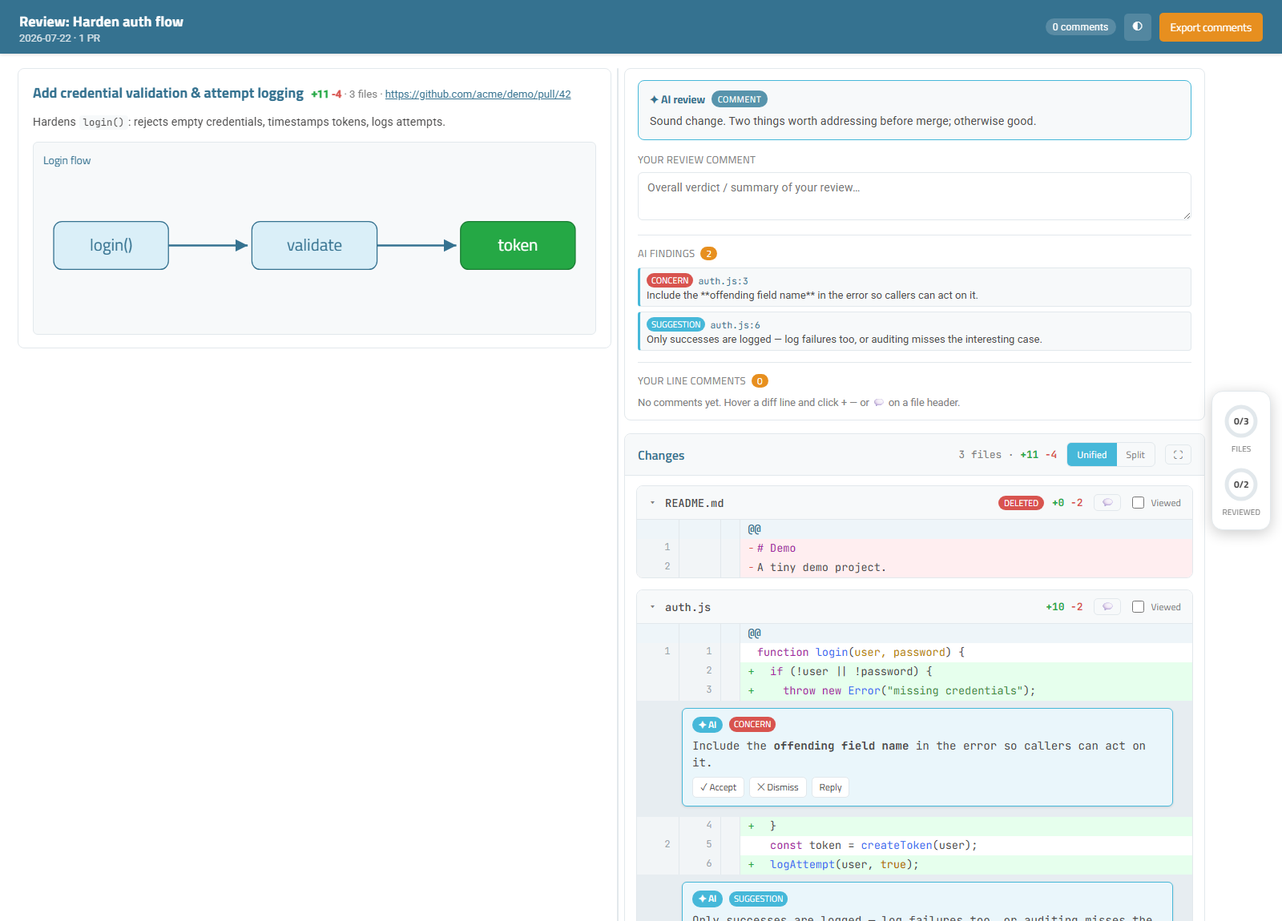
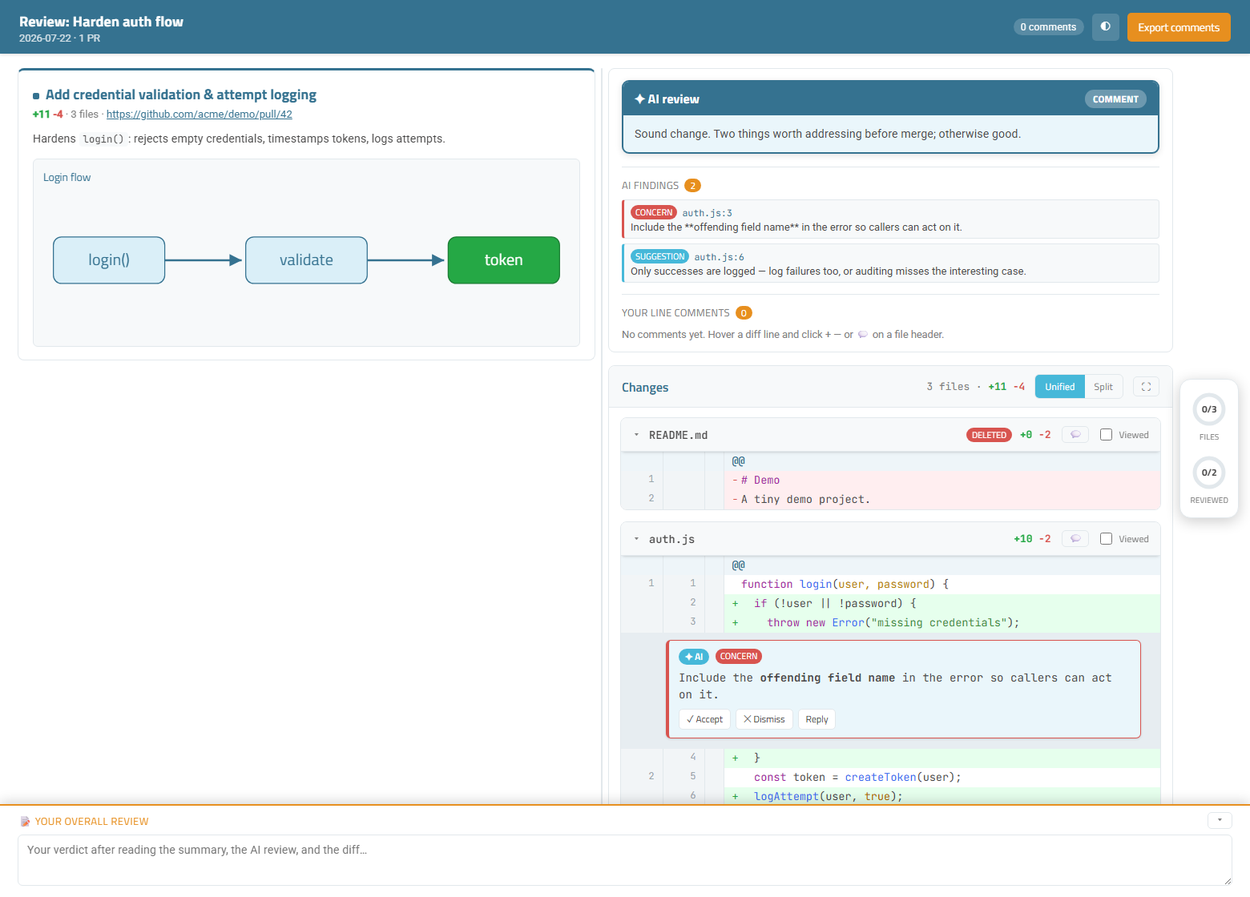
Add change groups, per-hunk highlighting, and review UI polish

diff --git a/templates/review.template.html b/templates/review.template.html
@@ -62,7 +62,7 @@
   .seg button { background:transparent; color:var(--header-text); border:none; padding:7px 12px; cursor:pointer; font-family:var(--font-heading); font-size:.8rem; }
   .seg button.active { background:rgba(255,255,255,.9); color:var(--secondary); }
 
-  .tabs { display:flex; gap:2px; padding:0 20px; background:var(--panel); border-bottom:1px solid var(--border); position:sticky; top:58px; z-index:20; overflow-x:auto; }
+  .tabs { display:flex; gap:2px; padding:0 20px; background:var(--panel); border-bottom:1px solid var(--border); position:sticky; top:var(--h-app,57px); z-index:20; overflow-x:auto; }
   .tabs:empty { display:none; }
   .tab { border:none; background:none; padding:11px 16px; cursor:pointer; font-family:var(--font-heading); color:var(--muted); border-bottom:3px solid transparent; white-space:nowrap; font-size:.9rem; }
   .tab.active { color:var(--secondary); border-bottom-color:var(--orange); }
@@ -76,8 +76,9 @@
   .pr-context {
     flex:0 0 var(--left-w); width:auto; min-width:0; position:sticky; top:72px;
     max-height:calc(100vh - 92px); overflow:auto;
-    background:var(--card); border:1px solid var(--border); border-radius:8px; padding:16px 18px;
+    background:var(--card); border:1px solid var(--border); border-top:3px solid var(--secondary); border-radius:8px; padding:16px 18px;
   }
+  .summary-head h2::before { content:""; display:inline-block; width:8px; height:8px; border-radius:2px; background:var(--secondary); margin-right:8px; vertical-align:middle; }
   .col-resizer { flex:0 0 16px; align-self:stretch; cursor:col-resize; position:relative; }
   .col-resizer::before { content:""; position:absolute; left:7px; top:0; bottom:0; width:2px; background:var(--border); border-radius:2px; transition:background .1s,width .1s; }
   .col-resizer:hover::before, .col-resizer.active::before { background:var(--primary); width:4px; left:6px; }
@@ -111,15 +112,35 @@
   .review-top { background:var(--card); border:1px solid var(--border); border-radius:8px; padding:14px 16px; }
   .review-label { display:block; font-family:var(--font-heading); font-size:.8rem; color:var(--muted); text-transform:uppercase; letter-spacing:.03em; margin-bottom:6px; }
   .review-top .general-input { min-height:60px; }
+  /* the reviewer's own overall verdict — an always-visible bar pinned to the
+     bottom of the viewport (orange accent, collapsible) */
+  .overall-bar { position:fixed; left:0; right:0; bottom:0; z-index:40; background:var(--card);
+    border-top:2px solid var(--orange); box-shadow:0 -3px 14px rgba(0,0,0,.16); padding:8px 22px 10px; }
+  .ob-head { display:flex; align-items:center; gap:10px; }
+  .ob-head .review-label { color:var(--orange); font-size:.82rem; margin:0; }
+  .ob-toggle { margin-left:auto; background:none; border:1px solid var(--border); border-radius:5px; color:var(--muted); cursor:pointer; font-size:.8rem; line-height:1; padding:3px 9px; }
+  .ob-toggle:hover { border-color:var(--orange); color:var(--orange); }
+  .overall-bar textarea { margin-top:7px; min-height:64px; }
+  body.oq-collapsed .overall-bar textarea { display:none; }
+  body.oq-collapsed .overall-bar { padding-bottom:8px; }
+  body.oq-collapsed .ob-toggle { transform:rotate(180deg); }
+  main { padding-bottom:150px; }
+  body.oq-collapsed main { padding-bottom:58px; }
+  @media (max-width:960px){ .overall-bar { padding-left:14px; padding-right:14px; } }
 
-  /* ── Claude's automatic review ── */
-  .ai-review { border:1px solid var(--primary); background:linear-gradient(0deg,var(--panel),var(--panel)); border-radius:8px; padding:12px 14px; margin-bottom:14px; }
-  .ai-review-head { display:flex; align-items:center; gap:8px; margin-bottom:6px; }
-  .ai-tag { font-family:var(--font-heading); font-weight:700; color:var(--secondary); font-size:.85rem; }
-  .verdict { font-family:var(--font-heading); font-size:.7rem; text-transform:uppercase; letter-spacing:.03em; padding:2px 8px; border-radius:10px; color:#fff; }
-  .verdict-approve { background:var(--green); }
-  .verdict-comment { background:var(--secondary-light,#5894AC); }
-  .verdict-request-changes { background:var(--red); }
+  /* ── AI review ── */
+  /* AI review card — bold, verdict-coloured header so it's spotted instantly */
+  .ai-review { border:2px solid var(--secondary); border-radius:9px; margin-bottom:16px; overflow:clip; background:var(--ai-bg); box-shadow:0 2px 8px rgba(0,0,0,.12); }
+  .ai-review-head { display:flex; align-items:center; gap:10px; padding:9px 14px; background:var(--secondary); color:#fff; }
+  .ai-review.v-approve { border-color:var(--green); } .ai-review.v-approve .ai-review-head { background:var(--green); }
+  .ai-review.v-request-changes { border-color:var(--red); } .ai-review.v-request-changes .ai-review-head { background:var(--red); }
+  .ai-review .summary-body { padding:12px 14px; }
+  .ai-tag { font-family:var(--font-heading); font-weight:700; color:#fff; font-size:1rem; }
+  .verdict { font-family:var(--font-heading); font-size:.72rem; font-weight:700; text-transform:uppercase; letter-spacing:.04em; padding:3px 10px; border-radius:11px; }
+  .ai-review-head .verdict { background:rgba(255,255,255,.28); color:#fff; margin-left:auto; }
+  .verdict-approve { background:var(--green); color:#fff; }
+  .verdict-comment { background:var(--secondary-light,#5894AC); color:#fff; }
+  .verdict-request-changes { background:var(--red); color:#fff; }
   .finding-list { display:flex; flex-direction:column; gap:6px; max-height:280px; overflow:auto; }
   .finding-item { text-align:left; background:var(--panel); border:1px solid var(--border); border-left:3px solid var(--primary); border-radius:4px; padding:6px 8px; cursor:pointer; font:inherit; color:var(--text); }
   .finding-item:hover { border-color:var(--primary); }
@@ -138,9 +159,16 @@
   .sev-question { background:var(--orange); }
   .sev-praise { background:var(--green); }
   .sev-comment { background:var(--secondary-light,#5894AC); }
+  /* severity-coloured accents so the eye jumps to concerns first */
+  .finding-item.sv-concern { border-left-color:var(--red); } .finding-item.sv-suggestion { border-left-color:var(--primary); }
+  .finding-item.sv-question { border-left-color:var(--orange); } .finding-item.sv-nit { border-left-color:var(--muted); }
+  .finding-item.sv-praise { border-left-color:var(--green); }
+  .ai-comment.sv-concern .ai-box { border-color:var(--red); } .ai-comment.sv-suggestion .ai-box { border-color:var(--primary); }
+  .ai-comment.sv-question .ai-box { border-color:var(--orange); } .ai-comment.sv-nit .ai-box { border-color:var(--muted); }
+  .ai-comment.sv-praise .ai-box { border-color:var(--green); }
 
   /* inline AI comment row (in the diff) — a bordered, tinted card, never code */
-  .ai-box { margin:8px 14px 12px 46px; border:1px solid var(--primary); background:var(--ai-bg); border-radius:6px; padding:10px 12px; box-shadow:0 1px 3px rgba(0,0,0,.12); }
+  .ai-box { margin:8px 14px 12px 46px; border:1px solid var(--primary); border-left-width:4px; background:var(--ai-bg); border-radius:6px; padding:10px 12px; box-shadow:0 1px 3px rgba(0,0,0,.12); }
   .ai-comment.dismissed .ai-box { opacity:.5; }
   .ai-box-head { display:flex; align-items:center; gap:8px; margin-bottom:6px; }
   .ai-box-head .who { font-family:var(--font-heading); font-weight:600; font-size:.72rem; color:#fff; background:var(--primary); padding:1px 8px; border-radius:10px; }
@@ -169,7 +197,7 @@
 
   /* ── diff block (bottom of right column) ── */
   .diff-block { background:var(--card); border:1px solid var(--border); border-radius:8px; }
-  .diff-block-head { display:flex; align-items:center; justify-content:space-between; gap:10px; padding:10px 16px; background:var(--panel); border-bottom:1px solid var(--border); border-radius:8px 8px 0 0; position:sticky; top:58px; z-index:15; }
+  .diff-block-head { display:flex; align-items:center; justify-content:space-between; gap:10px; padding:10px 16px; background:var(--panel); border-bottom:1px solid var(--border); border-radius:8px 8px 0 0; position:sticky; top:calc(var(--h-app,57px) + var(--h-tabs,0px)); z-index:15; }
   .dbh-title { font-family:var(--font-heading); font-weight:600; color:var(--secondary); }
   .dbh-right { display:flex; align-items:center; gap:12px; }
   .dbh-meta { font-family:var(--mono); font-size:.8rem; color:var(--muted); }
@@ -211,8 +239,35 @@
   textarea { width:100%; font-family:var(--font-body); font-size:.9rem; color:var(--text); background:var(--bg); border:1px solid var(--border); border-radius:6px; padding:9px 11px; resize:vertical; min-height:46px; }
   textarea:focus { outline:none; border-color:var(--primary); box-shadow:0 0 0 2px rgba(70,184,217,.25); }
 
-  .file { border:1px solid var(--border); border-radius:8px; margin-bottom:14px; overflow:hidden; background:var(--card); }
-  .file-header { display:flex; align-items:center; gap:10px; padding:10px 14px; background:var(--panel); cursor:pointer; user-select:none; border-bottom:1px solid var(--border); }
+  /* change groups — theme the diff (mechanical / feature / …); one "Reviewed" clears the whole group */
+  .group { margin-bottom:18px; }
+  .group-head { display:flex; align-items:center; gap:10px; padding:9px 14px; cursor:pointer; user-select:none; background:var(--panel); border:1px solid var(--border); border-left:4px solid var(--secondary); border-radius:8px; }
+  .group.gk-mechanical > .group-head { border-left-color:var(--muted); }
+  .group.gk-refactor > .group-head { border-left-color:#8a63d2; }
+  .group.gk-feature > .group-head { border-left-color:var(--primary); }
+  .group.gk-fix > .group-head { border-left-color:var(--red); }
+  .group.gk-test > .group-head { border-left-color:var(--green); }
+  .group.gk-docs > .group-head { border-left-color:var(--orange); }
+  .group .chevron { color:var(--muted); font-size:.8rem; transition:transform .15s; }
+  .group.collapsed .chevron { transform:rotate(-90deg); }
+  .group.collapsed .group-note, .group.collapsed .group-files { display:none; }
+  .group-title { font-family:var(--font-heading); font-weight:600; color:var(--secondary); flex:1; word-break:break-word; }
+  .group-kind { font-family:var(--font-heading); font-size:.64rem; text-transform:uppercase; letter-spacing:.04em; padding:2px 8px; border-radius:10px; color:#fff; white-space:nowrap; }
+  .group-kind.gk-mechanical { background:var(--muted); } .group-kind.gk-refactor { background:#8a63d2; } .group-kind.gk-feature { background:var(--primary); }
+  .group-kind.gk-fix { background:var(--red); } .group-kind.gk-test { background:var(--green); } .group-kind.gk-docs { background:var(--orange); } .group-kind.gk-other { background:var(--secondary-light,#5894AC); }
+  .group-count { font-size:.78rem; color:var(--muted); white-space:nowrap; }
+  .group-viewed { display:flex; align-items:center; gap:5px; font-family:var(--font-heading); font-size:.74rem; color:var(--muted); cursor:pointer; white-space:nowrap; }
+  .group-viewed input { accent-color:var(--green); width:15px; height:15px; cursor:pointer; }
+  .group-note { font-size:.9rem; line-height:1.5; color:var(--text); padding:10px 14px 2px; }
+  .group-note > :first-child { margin-top:0; } .group-note > :last-child { margin-bottom:0; }
+  .group-files { padding-top:12px; display:flex; flex-direction:column; gap:12px; }
+  .group-files .file { margin-bottom:0; }
+
+  .file { border:1px solid var(--border); border-radius:8px; margin-bottom:14px; overflow:clip; background:var(--card); }
+  /* file header sticks under the "Changes" bar while scrolling a long file */
+  .file-header { position:sticky; top:calc(var(--h-app,57px) + var(--h-tabs,0px) + var(--h-diffhead,42px)); z-index:6;
+    display:flex; align-items:center; gap:10px; padding:10px 14px; background:var(--panel); cursor:pointer; user-select:none; border-bottom:1px solid var(--border); box-shadow:0 2px 4px -2px rgba(0,0,0,.25); }
+  .diff-block.maximized .file-header { top:var(--h-diffhead,42px); }
   .file.collapsed .file-header { border-bottom:none; }
   .file.collapsed .file-body { display:none; }
   .chevron { color:var(--muted); font-size:.8rem; transition:transform .15s; }
@@ -377,9 +432,35 @@
   state.files = state.files || {}; state.viewed = state.viewed || {};
 
   // ---- syntax highlighting (highlight.js, loaded above; degrades offline) ----
-  function hl(code, lang){
-    if(window.hljs && lang){ try { return window.hljs.highlight(code, {language:lang, ignoreIllegals:true}).value; } catch(e){} }
-    return escAttr(code);
+  // Highlight a whole block and split into per-line HTML, keeping <span>s
+  // balanced across newlines — so multi-line strings/comments and the enclosing
+  // language context colour correctly (per-hunk, not per-line).
+  function hlLines(code, lang){
+    let html = null;
+    if(window.hljs && lang){ try { html = window.hljs.highlight(code, {language:lang, ignoreIllegals:true}).value; } catch(e){} }
+    if(html == null) return code.split("\n").map(escAttr);
+    const lines = []; let cur = ""; const stack = [];
+    const re = /<span\b[^>]*>|<\/span>|\n|[^<\n]+|</g; let m;
+    while((m = re.exec(html))){
+      const t = m[0];
+      if(t === "\n"){ lines.push(cur + "</span>".repeat(stack.length)); cur = stack.join(""); }
+      else if(t.slice(0,5) === "<span"){ stack.push(t); cur += t; }
+      else if(t === "</span>"){ stack.pop(); cur += t; }
+      else { cur += t; }
+    }
+    lines.push(cur + "</span>".repeat(stack.length));
+    return lines;
+  }
+  // annotate each row in a hunk with its highlighted HTML (r._hl)
+  function annotateHl(h, lang){
+    const newHl = hlLines(h.rows.filter(r=>r.t!=="d").map(r=>r.c).join("\n"), lang);
+    const oldHl = hlLines(h.rows.filter(r=>r.t!=="a").map(r=>r.c).join("\n"), lang);
+    let ni=0, oi=0;
+    for(const r of h.rows){
+      if(r.t==="d") r._hl = oldHl[oi++];
+      else if(r.t==="a") r._hl = newHl[ni++];
+      else { r._hl = newHl[ni++]; oi++; }
+    }
   }
   const save = () => { try { localStorage.setItem(STORE_KEY, JSON.stringify(state)); } catch(e){} };
   const uid = (pr,file,key) => pr + "" + file + "" + key;
@@ -395,6 +476,7 @@
     if(!fd.hunks.length){
       b = `<tr class="line line-info"><td class="ln"></td><td class="ln"></td><td class="gutter empty"></td><td class="code"><em>${escAttr(fd.note||"")}</em></td></tr>`;
     } else for(const h of fd.hunks){
+      annotateHl(h, fd.lang);
       b += `<tr class="line line-hunk"><td class="ln"></td><td class="ln"></td><td class="gutter empty"></td><td class="code">@@ ${escAttr(h.header)}</td></tr>`;
       for(const r of h.rows){
         const cls = r.t==="a"?"line-add":r.t==="d"?"line-del":"line-ctx";
@@ -405,7 +487,7 @@
           + `<td class="ln ln-old">${r.t!=="a"&&r.o!=null?r.o:""}</td>`
           + `<td class="ln ln-new">${r.t!=="d"&&r.n!=null?r.n:""}</td>`
           + gutter(fd.path,key,lineno,r.c)
-          + `<td class="code"><span class="marker">${marker}</span>${hl(r.c, fd.lang)}</td>`
+          + `<td class="code"><span class="marker">${marker}</span>${r._hl}</td>`
           + `</tr>`;
       }
     }
@@ -422,22 +504,23 @@
     if(!fd.hunks.length){
       b = `<tr class="line line-info"><td class="ln"></td><td class="code" colspan="5"><em>${escAttr(fd.note||"")}</em></td></tr>`;
     } else for(const h of fd.hunks){
+      annotateHl(h, fd.lang);
       b += `<tr class="line line-hunk"><td class="ln"></td><td class="code" colspan="5">@@ ${escAttr(h.header)}</td></tr>`;
       for(const p of splitPairs(h)){
         b += `<tr class="line">`;
         // left (old side)
         if(p.ctx){
-          b += `<td class="ln ln-old">${p.l.o!=null?p.l.o:""}</td><td class="gutter empty"></td><td class="code line-ctx">${hl(p.l.c, fd.lang)}</td>`;
+          b += `<td class="ln ln-old">${p.l.o!=null?p.l.o:""}</td><td class="gutter empty"></td><td class="code line-ctx">${p.l._hl}</td>`;
         } else if(p.l){
-          b += `<td class="ln ln-old">${p.l.o!=null?p.l.o:""}</td>` + gutter(fd.path,"o"+p.l.o,p.l.o,p.l.c) + `<td class="code line-del">${hl(p.l.c, fd.lang)}</td>`;
+          b += `<td class="ln ln-old">${p.l.o!=null?p.l.o:""}</td>` + gutter(fd.path,"o"+p.l.o,p.l.o,p.l.c) + `<td class="code line-del">${p.l._hl}</td>`;
         } else {
           b += `<td class="ln"></td><td class="gutter empty"></td><td class="code empty"></td>`;
         }
         // right (new side)
         if(p.ctx){
-          b += `<td class="ln ln-new">${p.r.n!=null?p.r.n:""}</td>` + gutter(fd.path,String(p.r.n),p.r.n,p.r.c) + `<td class="code line-ctx">${hl(p.r.c, fd.lang)}</td>`;
+          b += `<td class="ln ln-new">${p.r.n!=null?p.r.n:""}</td>` + gutter(fd.path,String(p.r.n),p.r.n,p.r.c) + `<td class="code line-ctx">${p.r._hl}</td>`;
         } else if(p.r){
-          b += `<td class="ln ln-new">${p.r.n!=null?p.r.n:""}</td>` + gutter(fd.path,String(p.r.n),p.r.n,p.r.c) + `<td class="code line-add">${hl(p.r.c, fd.lang)}</td>`;
+          b += `<td class="ln ln-new">${p.r.n!=null?p.r.n:""}</td>` + gutter(fd.path,String(p.r.n),p.r.n,p.r.c) + `<td class="code line-add">${p.r._hl}</td>`;
         } else {
           b += `<td class="ln"></td><td class="gutter empty"></td><td class="code empty"></td>`;
         }
@@ -492,7 +575,7 @@
     const aiId = pr + " " + c.aid;
     if(mount.querySelector('.ai-comment[data-aid="'+cssEsc(aiId)+'"]')) return;
     const row = document.createElement("tr");
-    row.className = "comment-row ai-comment"; row.dataset.aid = aiId;
+    row.className = "comment-row ai-comment sv-" + (c.severity || "comment"); row.dataset.aid = aiId;
     const td = document.createElement("td"); td.colSpan = tr.children.length;
     td.innerHTML = `<div class="ai-box">
       <div class="ai-box-head"><span class="who">✦ ${escAttr(REVIEWER)}</span><span class="sev sev-${escAttr(c.severity)}">${escAttr(c.severity)}</span></div>
@@ -531,7 +614,7 @@
       list.innerHTML = rev.comments.map(c=>{
         const s = state.aiState[pr+" "+c.aid] || "";
         const statusHtml = s ? `<span class="fi-status ${s}">${s}</span>` : "";
-        return `<button class="finding-item${s?" done":""}" data-pr="${escAttr(pr)}" data-file="${escAttr(c.file)}" data-key="${escAttr(c.key)}"><span class="finding-top"><span class="sev sev-${escAttr(c.severity)}">${escAttr(c.severity)}</span><span class="finding-loc">${escAttr(c.file)}:${escAttr(c.line)}</span>${statusHtml}</span><span class="finding-text">${escAttr(c.body)}</span></button>`;
+        return `<button class="finding-item sv-${escAttr(c.severity)}${s?" done":""}" data-pr="${escAttr(pr)}" data-file="${escAttr(c.file)}" data-key="${escAttr(c.key)}"><span class="finding-top"><span class="sev sev-${escAttr(c.severity)}">${escAttr(c.severity)}</span><span class="finding-loc">${escAttr(c.file)}:${escAttr(c.line)}</span>${statusHtml}</span><span class="finding-text">${escAttr(c.body)}</span></button>`;
       }).join("");
     });
   }
@@ -671,6 +754,15 @@
     fileEl.classList.toggle("collapsed", viewed);
     const cb = fileEl.querySelector(".viewed-cb"); if(cb) cb.checked = viewed;
     if(persist){ if(viewed) state.viewed[id]=true; else delete state.viewed[id]; save(); updateCounts(); }
+    const grp = fileEl.closest(".group"); if(grp) syncGroupCb(grp);
+  }
+  // reflect member files' viewed state on the group's "Reviewed" checkbox
+  function syncGroupCb(group){
+    const cb = group.querySelector(".gv-cb"); if(!cb) return;
+    const files = [...group.querySelectorAll(".file")];
+    const n = files.filter(f=>f.classList.contains("viewed")).length;
+    cb.checked = files.length>0 && n===files.length;
+    cb.indeterminate = n>0 && n<files.length;
   }
   document.querySelectorAll(".file").forEach(fileEl=>{
     const pr = fileEl.closest("section.pr").dataset.pr, file = fileEl.dataset.file, id = pr + " " + file;
@@ -680,6 +772,21 @@
     if(cb) cb.addEventListener("change", ()=> setViewed(fileEl, cb.checked, true));
     if(state.files[id] && (state.files[id].text||"").trim()){ fileNoteBox(fileEl, state.files[id].text, false); if(btn) btn.classList.add("has-note"); }
     if(state.viewed[id]) setViewed(fileEl, true, false);
+  });
+
+  // ---- change groups: collapse + one "Reviewed" that clears the whole group ----
+  document.querySelectorAll(".group-head").forEach(h=>{
+    h.addEventListener("click", (e)=>{ if(e.target.closest(".group-viewed")) return; h.closest(".group").classList.toggle("collapsed"); });
+  });
+  document.querySelectorAll(".group").forEach(group=>{
+    const cb = group.querySelector(".gv-cb");
+    if(!cb) return;
+    cb.addEventListener("change", ()=>{
+      const want = cb.checked;   // capture before setViewed→syncGroupCb mutates cb mid-loop
+      group.querySelectorAll(".file").forEach(f=> setViewed(f, want, true));
+      syncGroupCb(group);
+    });
+    syncGroupCb(group);
   });
 
   // ---- tabs ----
@@ -799,6 +906,30 @@
     if(e.key!=="Escape") return;
     if(!lb.hidden){ lb.hidden=true; lbInner.innerHTML=""; }
     document.querySelectorAll(".diff-block.maximized").forEach(d=>exitMax(d));
+  });
+
+  // ---- sticky offsets: measure header/tabs/diff-head so file headers stick cleanly ----
+  function setStickyVars(){
+    const rs = document.documentElement.style;
+    const app = document.querySelector(".app-header");
+    rs.setProperty("--h-app", (app ? app.offsetHeight : 57) + "px");
+    const tabs = document.getElementById("tabs");
+    const tabsH = (tabs && getComputedStyle(tabs).display !== "none") ? tabs.offsetHeight : 0;
+    rs.setProperty("--h-tabs", tabsH + "px");
+    const dh = document.querySelector(".diff-block-head");
+    rs.setProperty("--h-diffhead", (dh ? dh.offsetHeight : 42) + "px");
+  }
+  setStickyVars();
+  window.addEventListener("resize", setStickyVars);
+  window.addEventListener("load", setStickyVars);
+
+  // ---- overall-review bottom bar: collapse toggle (persisted) ----
+  try { if(localStorage.getItem("htmlreview:overallcollapsed")==="1") document.body.classList.add("oq-collapsed"); } catch(e){}
+  document.querySelectorAll(".ob-toggle").forEach(btn=>{
+    btn.addEventListener("click", ()=>{
+      const c = document.body.classList.toggle("oq-collapsed");
+      try { localStorage.setItem("htmlreview:overallcollapsed", c ? "1" : "0"); } catch(e){}
+    });
   });
 
   // ---- init ----

diff --git a/SKILL.md b/SKILL.md
@@ -151,6 +151,36 @@ deserve a small handful of findings; a clean change deserves **none** — return
 an empty `comments` array (the global card still summarises). Signal over volume:
 a reviewer should be able to act on every finding you leave.
 
+### Change groups (optional)
+
+For a PR that touches many files, group them by theme so the reviewer isn't
+slogging file-by-file — especially when **the same change repeats across many
+files** (a rename, an added `#include`, a signature tweak). Add a `groups` array:
+
+```json
+"groups": [
+  { "id": "inc", "kind": "mechanical", "title": "Add #include \"logging.h\"",
+    "note": "Identical include at the top of each unit — review one, tick the group.",
+    "files": ["src/a.cpp", "src/b.cpp", "src/c.cpp"] },
+  { "id": "core", "kind": "feature", "title": "Wire up the logger",
+    "files": ["src/logger.cpp"] }
+]
+```
+
+- Each group renders as a labelled band (colour-coded `kind` badge + note +
+  summed `+/-`) with its files beneath, and **one "Reviewed" checkbox that marks
+  every file in the group viewed at once** — the fix for a repeated mechanical
+  change.
+- `kind`: `mechanical` · `refactor` · `feature` · `fix` · `test` · `docs` ·
+  `other`. `mechanical` groups **collapse their files by default** (expand one to
+  see the pattern); override per group with `collapsed: true|false`.
+- Files you don't list fall into an **"Other changes"** group at the end, so you
+  can group just the noisy repetitive files and leave the rest.
+- **Mixed file?** If a file has the repeated change *and* a distinct change, put
+  it in the *substantive* group (its full diff shows there) — don't also list it
+  in the mechanical group. The mechanical group is only for files whose entire
+  change is the pattern.
+
 ### 3. Build and open
 
 ```bash
@@ -196,6 +226,7 @@ accepted findings and their own comments; leave dismissed ones alone.
 | `prs[].blocks[]` | per PR | Free-form summary blocks (see *Summary blocks*). Replaces `summary`/`diagrams`. |
 | `prs[].diffFile` | per PR | Path to a unified-diff file (relative to spec). |
 | `prs[].diff` | per PR | Inline unified-diff string (alternative to `diffFile`). |
+| `prs[].groups` | per PR | Optional: organise files into themed groups — `[{ id, title, kind?, note?, collapsed?, files[] }]` (see *Change groups*). |
 | `prs[].review` | per PR | Review mode only: `{ verdict?, global?, comments[] }` (see *Automatic (AI) review*). Omit for diff-only. |
 
 One PR → no tabs, section shown directly. Two+ → a tab bar with per-PR comment
@@ -209,17 +240,24 @@ See [examples/screenshot.png](examples/screenshot.png). A two-column workspace:
   or `blocks`): a sticky panel with the title, `+/-` stats, PR link, and your
   free-form summary blocks. Omitted for a bare diff.
 - **Right — the review:**
-  - **Top** — in review mode, a read-only **"&lt;reviewer&gt; review"** card
-    (verdict + global assessment) and a **findings** list; then the reviewer's
-    own **global comment** box and a live list of their line comments (click any
-    to jump to that line).
+  - **Top** — in review mode, a bold **"&lt;reviewer&gt; review"** card whose
+    header is **coloured by verdict** (green approve / red request-changes /
+    blue comment) so it's spotted instantly, then a **findings** list where each
+    item is **accent-coloured by severity**, then a live list of the reviewer's
+    line comments (click any to jump to that line).
   - **Bottom** — the self-contained **"Changes"** block: collapsible per-file
-    diffs with **language-aware syntax highlighting** (by file extension),
-    dual old/new line numbers and green/red backgrounds. The reviewer clicks
-    the **+** gutter to comment on a line, the **💬** on a file header to
-    comment on the whole file, ticks **Viewed** to mark a file done (it
-    collapses, GitHub-style, and is remembered), and hits **⛶** to read the
-    diff fullscreen. The AI findings appear inline with Accept / Dismiss / Reply.
+    diffs with **language-aware syntax highlighting** (by file extension,
+    highlighted per-hunk so multi-line strings/comments colour correctly),
+    dual old/new line numbers and green/red backgrounds. Each **file header is
+    sticky** — it stays pinned under the "Changes" bar while you scroll a long
+    file, then hands off to the next file. The reviewer clicks the **+** gutter
+    to comment on a line, the **💬** on a file header to comment on the whole
+    file, ticks **Viewed** to mark a file done (it collapses, GitHub-style, and
+    is remembered), and hits **⛶** to read the diff fullscreen. AI findings
+    appear inline, severity-coloured, with Accept / Dismiss / Reply.
+- **Pinned to the bottom** — a **📝 Your overall review** bar stays visible at
+  the bottom of the viewport no matter where you scroll (collapsible), for the
+  reviewer's own verdict after reading everything.
 
 The two columns are **resizable** — drag the divider between them (default
 **50/50**, double-click resets). On narrow screens the left panel stacks on top.
